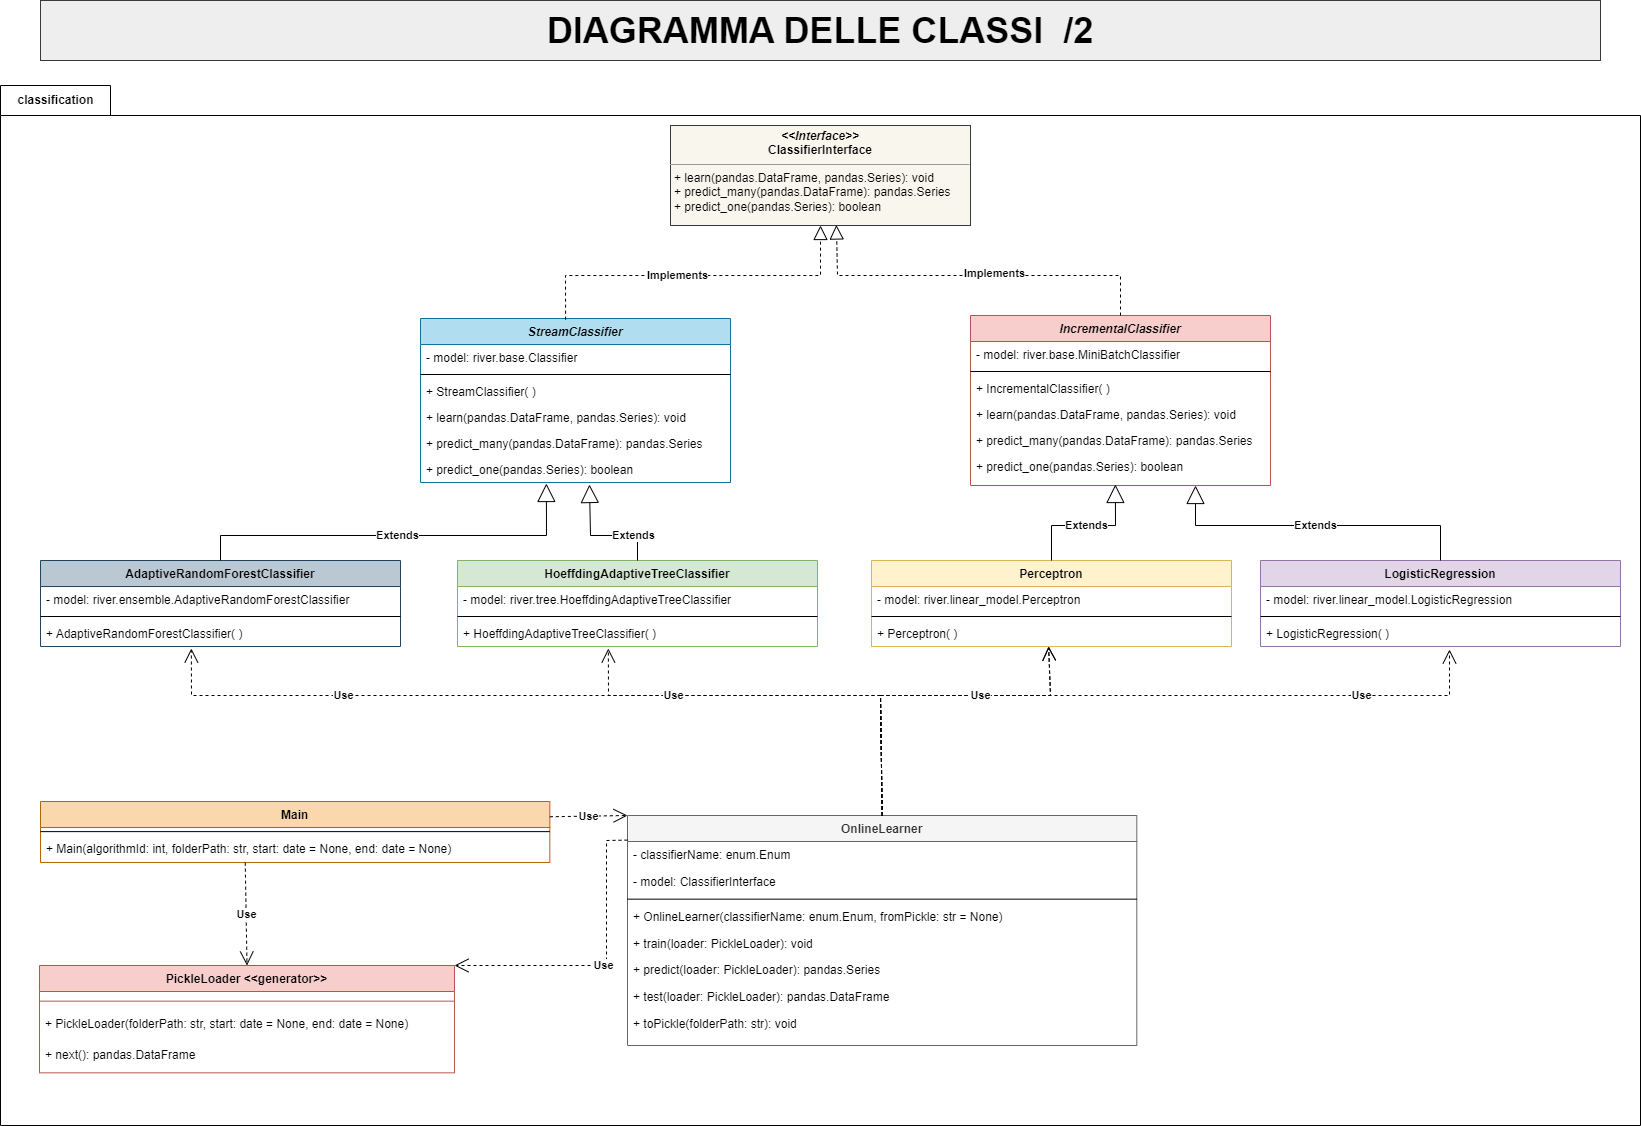
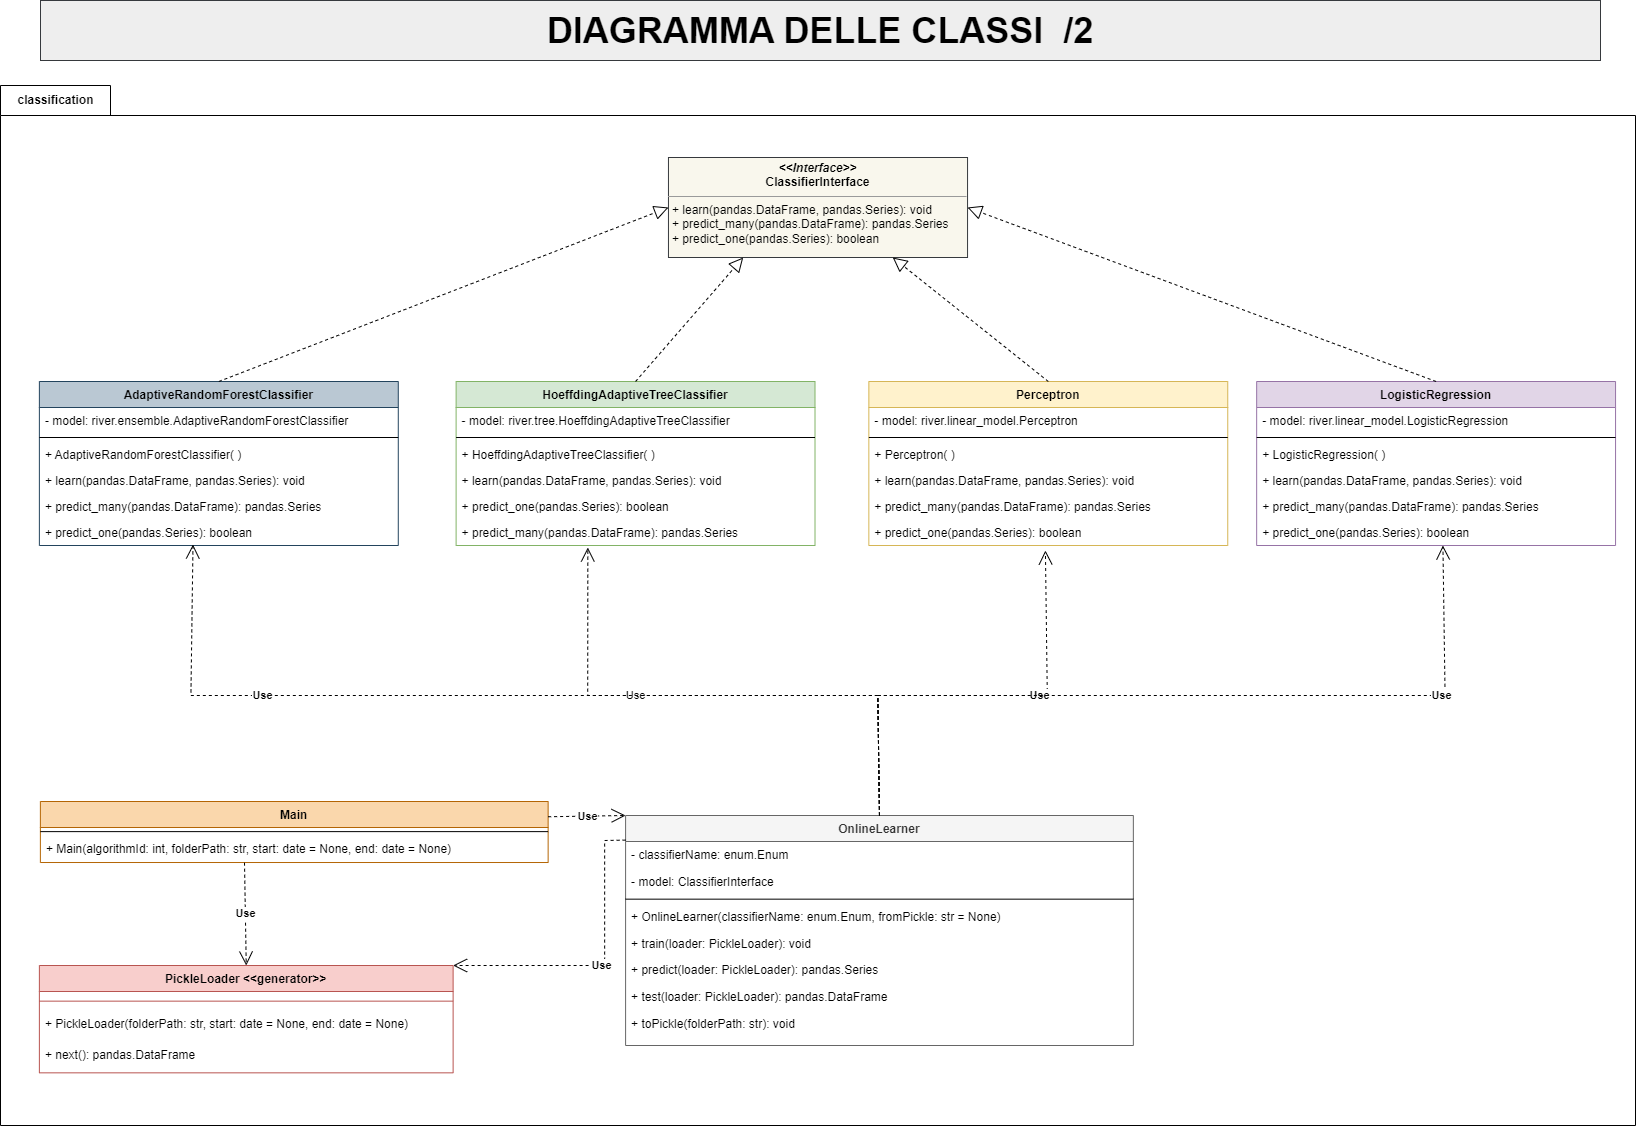
Aggiunto scaling in ogni modello

diff --git a/src/classification/HoeffdingAdaptiveTreeClassifier.py b/src/classification/HoeffdingAdaptiveTreeClassifier.py
@@ -1,33 +1,61 @@
 """
 // Name        : HoeffdingAdaptiveTreeClassifier.py
 // Author      : Andrea Brunetta, Francesco Luce
-// Version     : 1.0
-// Description : Classe concreta HoeffdingAdaptiveTreeClassifier che eredita da StreamClassifier.
+// Version     : 2.0
+// Description : Classe concreta HoeffdingAdaptiveTreeClassifier che implementa i metodi:
+                    - learn_many(x: pd.DataFrame, y: pd.Series);
+                    - predict_many(x: pd.DataFrame);
+                    - predict_one(x: pd.Series).
+                 Eredita da ClassifierInterface.
 """
-from river import tree
-from ClassifierInterface import ClassifierInterface
+
 import pandas as pd
+
+from river import stream
+from river import tree, preprocessing
+from ClassifierInterface import ClassifierInterface
 
 
 class HoeffdingAdaptiveTreeClassifier(ClassifierInterface):
+    """
+        Metodo costruttore che inizializza il costruttore di uno AdaptiveStandardScaler
+        Crea pipeline che contiene uno scaler e il modello che si vuole inizializzare.
+        Richiama il costruttore di tree.HoeffdingAdaptiveTreeClassifier()
+    """
     def __init__(self):
-        self.__model = tree.HoeffdingAdaptiveTreeClassifier()
+        self.__model = preprocessing.MinMaxScaler() | tree.HoeffdingAdaptiveTreeClassifier()
 
+    """
+        Metodo learn che prende in input:
+        - un pandas.Dataframe;
+        - una pandas.Series.
+        Utilizza il meccanismo delle pipeline per aggiornare lo scaler ed effettuare il learn_one.
+        Richiama il learn_one di HoeffdingAdaptiveTreeClassifier.
+    """
     def learn(self, x: pd.DataFrame, y: pd.Series):
-        # orient="records" genera una lista dove ogni elemento è una riga del DataFrame sotto forma di dizionario
-        x_dict = x.to_dict(orient="records")
-        for x_row, y_row in zip(x_dict, y):
-            self.__model = self.__model.learn_one(x_row, y_row)
-            return self
+        for xi, yi in stream.iter_pandas(x, y):
+            # Aggiornare scaler
+            self.__model.predict_one(xi)
+            self.__model = self.__model.learn_one(xi, yi)
+        return self
 
+    """
+        Metodo predict_many che prende in input:
+        - un Dataframe;
+        Restituisce una pandas.Series.
+        Richiama il predict_one di HoeffdingAdaptiveTreeClassifier.
+    """
     def predict_many(self, x: pd.DataFrame) -> pd.Series:
-        # orient="records" genera una lista dove ogni elemento è una riga del DataFrame sotto forma di dizionario
-        x_dict = x.to_dict(orient="records")
         labels = []
-        for row in x_dict:
-            label = self.__model.predict_one(row)
+        for xi in stream.iter_pandas(x):
+            label = self.__model.predict_one(xi[0])
             labels.append(label)
         return pd.Series(labels)
 
+    """
+        Metodo predict_one che prende in input:
+        - una pandas.Series.
+        Restituisce una valore booleano.
+    """
     def predict_one(self, x: pd.Series) -> bool:
         return self.__model.predict_one(x.to_dict())

diff --git a/src/classification/AdaptiveRandomForestClassifier.py b/src/classification/AdaptiveRandomForestClassifier.py
@@ -1,33 +1,60 @@
 """
 // Name        : AdaptiveRandomForestClassifier.py
 // Author      : Andrea Brunetta, Francesco Luce
-// Version     : 1.0
-// Description : Classe concreta AdaptiveRandomForestClassifier che eredita da StreamClassifier.
+// Version     : 2.0
+// Description : Classe concreta AdaptiveRandomForestClassifier che implementa i metodi:
+                    - learn_many(x: pd.DataFrame, y: pd.Series);
+                    - predict_many(x: pd.DataFrame);
+                    - predict_one(x: pd.Series).
+                 Eredita da ClassifierInterface.
 """
-from river import ensemble
-from ClassifierInterface import ClassifierInterface
+
 import pandas as pd
+
+from river import ensemble, preprocessing, stream
+from ClassifierInterface import ClassifierInterface
 
 
 class AdaptiveRandomForestClassifier(ClassifierInterface):
+    """
+        Metodo costruttore che inizializza il costruttore di uno AdaptiveStandardScaler
+        Crea pipeline che contiene uno scaler e il modello che si vuole inizializzare.
+        Richiama il costruttore di ensemble.AdaptiveRandomForestClassifier()
+    """
     def __init__(self):
-        self.__model = ensemble.AdaptiveRandomForestClassifier()
+        self.__model = preprocessing.MinMaxScaler() | ensemble.AdaptiveRandomForestClassifier()
 
+    """
+        Metodo learn che prende in input:
+        - un pandas.Dataframe;
+        - una pandas.Series.
+        Utilizza il meccanismo delle pipeline per aggiornare lo scaler ed effettuare il learn_one.
+        Richiama il learn_one di AdaptiveRandomForestClassifier.
+    """
     def learn(self, x: pd.DataFrame, y: pd.Series):
-        # orient="records" genera una lista dove ogni elemento è una riga del DataFrame sotto forma di dizionario
-        x_dict = x.to_dict(orient="records")
-        for x_row, y_row in zip(x_dict, y):
-            self.__model = self.__model.learn_one(x_row, y_row)
-            return self
+        for xi, yi in stream.iter_pandas(x, y):
+            # Aggiornare scaler
+            self.__model.predict_one(xi)
+            self.__model = self.__model.learn_one(xi, yi)
+        return self
 
+    """
+        Metodo predict_many che prende in input:
+        - un Dataframe;
+        Restituisce una pandas.Series.
+        Richiama il predict_one di AdaptiveRandomForestClassifier.
+    """
     def predict_many(self, x: pd.DataFrame) -> pd.Series:
-        # orient="records" genera una lista dove ogni elemento è una riga del DataFrame sotto forma di dizionario
-        x_dict = x.to_dict(orient="records")
         labels = []
-        for row in x_dict:
-            label = self.__model.predict_one(row)
+        for xi in stream.iter_pandas(x):
+            label = self.__model.predict_one(xi[0])
             labels.append(label)
         return pd.Series(labels)
 
+    """
+        Metodo predict_one che prende in input:
+        - una pandas.Series.
+        Restituisce una valore booleano.
+    """
     def predict_one(self, x: pd.Series) -> bool:
         return self.__model.predict_one(x.to_dict())

diff --git a/src/classification/LogisticRegression.py b/src/classification/LogisticRegression.py
@@ -1,26 +1,58 @@
 """
 // Name        : LogisticRegression.py
 // Author      : Andrea Brunetta, Francesco Luce
-// Version     : 1.0
-// Description : Classe concreta LogisticRegression che eredita da IncrementalClassifier.
+// Version     : 2.0
+// Description : Classe concreta LogisticRegression che implementa i metodi:
+                    - learn_many(x: pd.DataFrame, y: pd.Series);
+                    - predict_many(x: pd.DataFrame);
+                    - predict_one(x: pd.Series).
+                 Eredita da ClassifierInterface
 """
+
 import pandas as pd
+
 from river import linear_model
+from river import preprocessing
 from ClassifierInterface import ClassifierInterface
 
 
 class LogisticRegression(ClassifierInterface):
+    """
+        Metodo costruttore che inizializza il costruttore di uno StandardScaler
+        Crea pipeline che contiene uno scaler e il modello che si vuole inizializzare.
+        Richiama il costruttore di linear_model.LogisticRegression()
+    """
     def __init__(self):
-        self.__model = linear_model.LogisticRegression()
+        self.__scaler = preprocessing.StandardScaler()
+        self.__model = self.__scaler | linear_model.LogisticRegression()
 
+    """
+        Metodo learn che prende in input:
+        - un pandas.Dataframe;
+        - una pandas.Series.
+        Utilizza il meccanismo delle pipeline per aggiornare lo scaler ed effettuare il learn_many.
+        Richiama il learn_many di LogisticRegression.
+    """
     def learn(self, x: pd.DataFrame, y: pd.Series):
-        # orient="records" genera una lista dove ogni elemento è una riga del DataFrame sotto forma di dizionario
+        # Aggiorna le medie dello scaler
+        self.__model.predict_many(x)
         self.__model = self.__model.learn_many(x, y)
         return self
 
+    """
+        Metodo predict_many che prende in input:
+        - un Dataframe;
+        Restituisce una pandas.Series.
+        Richiama il predict_many di LogisticRegression.
+    """
     def predict_many(self, x: pd.DataFrame) -> pd.Series:
         # orient="records" genera una lista dove ogni elemento è una riga del DataFrame sotto forma di dizionario
         return self.__model.predict_many(x)
 
+    """
+        Metodo predict_one che prende in input:
+        - una pandas.Series.
+        Restituisce una valore booleano.
+    """
     def predict_one(self, x: pd.Series) -> bool:
         return self.__model.predict_one(x)

diff --git a/src/classification/Perceptron.py b/src/classification/Perceptron.py
@@ -1,25 +1,58 @@
 """
 // Name        : Perceptron.py
 // Author      : Andrea Brunetta, Francesco Luce
-// Version     : 1.0
-// Description : Classe concreta Perceptron che eredita da IncrementalClassifier.
+// Version     : 2.0
+// Description : Classe concreta Perceptron che implementa i metodi:
+                    - learn_many(x: pd.DataFrame, y: pd.Series);
+                    - predict_many(x: pd.DataFrame);
+                    - predict_one(x: pd.Series).
+                 Eredita da ClassifierInterface.
 """
+
 import pandas as pd
+import river.preprocessing
+
 from river import linear_model
-from river import preprocessing
 from ClassifierInterface import ClassifierInterface
 
 
 class Perceptron(ClassifierInterface):
+    """
+        Metodo costruttore che inizializza il costruttore di uno StandardScaler
+        Crea pipeline che contiene uno scaler e il modello che si vuole inizializzare.
+        Richiama il costruttore di linear_model.Perceptron()
+    """
     def __init__(self):
-        self.__model = linear_model.Perceptron()
+        scaler = river.preprocessing.StandardScaler()
+        self.__model = scaler | linear_model.Perceptron()
 
+    """
+        Metodo learn che prende in input:
+        - un pandas.Dataframe;
+        - una pandas.Series.
+        Utilizza il meccanismo delle pipeline per aggiornare lo scaler ed effettuare il learn_many.
+        Richiama il learn_many di Perceptron.
+    """
     def learn(self, x: pd.DataFrame, y: pd.Series):
+        # Aggiorna le medie dello scaler
+        self.__model.predict_many(x)
         self.__model = self.__model.learn_many(x, y)
         return self
 
+    """
+        Metodo predict_many che prende in input:
+        - un Dataframe;
+        Restituisce una pandas.Series.
+        Richiama il predict_many di Perceptron.
+    """
     def predict_many(self, x: pd.DataFrame) -> pd.Series:
+        # orient="records" genera una lista dove ogni elemento è una riga del DataFrame sotto forma di dizionario
         return self.__model.predict_many(x)
 
+    """
+        Metodo predict_one che prende in input:
+        - una pandas.Series.
+        Restituisce una valore booleano.
+    """
     def predict_one(self, x: pd.Series) -> bool:
         return self.__model.predict_one(x)

diff --git a/src/classification/Main.py b/src/classification/Main.py
@@ -1,14 +1,15 @@
 """
 // Name        : Main.py
 // Author      : Andrea Brunetta, Francesco Luce
-// Version     : 1.0
+// Version     : 2.0
 // Description : Classe Main.
 """
-import enum
+
 import os
 import matplotlib.pyplot as plt
 import scikitplot as skplt
 
+from sklearn.metrics import accuracy_score, classification_report, mean_absolute_error
 from OnlineLearner import OnlineLearner
 from PickleLoader import PickleLoader
 from ClassifierName import ClassifierName
@@ -21,14 +22,22 @@ class Main:
 
         train_loader = PickleLoader(folderPath, start=files[0], end=files[train_percentage])
         test_loader = PickleLoader(folderPath, start=files[train_percentage + 1], end=files[-1])
+
         model = OnlineLearner(classifierName)
+        print("Inizio training")
         model.train(train_loader)
+        print("Inizio testing")
         tester = model.test(test_loader)
+        acc = accuracy_score(tester.iloc[:, 0], tester.iloc[:, 1])
+        report = classification_report(tester.iloc[:, 0], tester.iloc[:, 1])
+        print(f'Accuracy: {acc}')
+        print(f'Missclassification: {1 - acc}')
+        print(report)
         skplt.metrics.plot_confusion_matrix(tester.iloc[:, 0], tester.iloc[:, 1])
+        plt.title("ChurnDim = 60, PeriodDim = 60, Periods = 3\nPipeline: MinMaxScaler -> HoeffdingAdaptiveTreeClassifier")
         plt.show()
 
 
-# cProfile.run("Main('AdaptiveRandomForestClassifier', './../../output')")
 print("Classificatori disponibili: \n")
 print(ClassifierName.ADAP_RANDOM_FOREST.value)
 print(ClassifierName.HOEFFDING_ADAPTIVE_TREE.value)

diff --git a/src/classification/ClassifierInterface.py b/src/classification/ClassifierInterface.py
@@ -1,20 +1,35 @@
 """
 // Name        : ClassifierInterface.py
 // Author      : Andrea Brunetta, Francesco Luce
-// Version     : 1.0
-// Description : Interfaccia ClassifierInterface per permettere alle classi astratte StreamClassifier e
-                 IncrementalClassifier di implementare i metodi sottostanti.
+// Version     : 2.0
+// Description : Interfaccia ClassifierInterface per permettere alle classi Perceptron, LogisticRegression,
+                 AdaptiveRandomForestClassifier e HoeffdingAdaptiveTreeClassifier di implementare i metodi sottostanti.
 """
 
 import pandas as pd
 
 
 class ClassifierInterface:
+    """
+        Metodo learn che prende in input:
+        - un pandas.Dataframe;
+        - una pandas.Series.
+    """
     def learn(self, x: pd.DataFrame, y: pd.Series):
         pass
 
+    """
+        Metodo predict_many che prende in input:
+        - un Dataframe;
+        Restituisce una pandas.Series.
+    """
     def predict_many(self, x: pd.DataFrame) -> pd.Series:
         pass
 
+    """
+        Metodo predict_one che prende in input:
+        - una pandas.Series.
+        Restituisce una valore booleano.
+    """
     def predict_one(self, x: pd.Series) -> bool:
         pass

diff --git a/src/classification/PickleLoader.py b/src/classification/PickleLoader.py
@@ -1,7 +1,7 @@
 """
 // Name        : PickleLoader.py
 // Author      : Andrea Brunetta, Francesco Luce
-// Version     : 1.0
+// Version     : 2.0
 // Description : La seguente classe si occupa di aprire la directory contenente i pickle e caricarli, restituendo
                  il prossimo elemento fino alla fine della directory. Sono parametrizzati anche lo start e l'end.
 """

diff --git a/src/classification/OnlineLearner.py b/src/classification/OnlineLearner.py
@@ -1,10 +1,9 @@
 """
 // Name        : OnlineLearner.py
 // Author      : Andrea Brunetta, Francesco Luce
-// Version     : 1.0
+// Version     : 2.0
 // Description : Classe OnlineLearner.
 """
-import enum
 
 import pandas as pd
 
